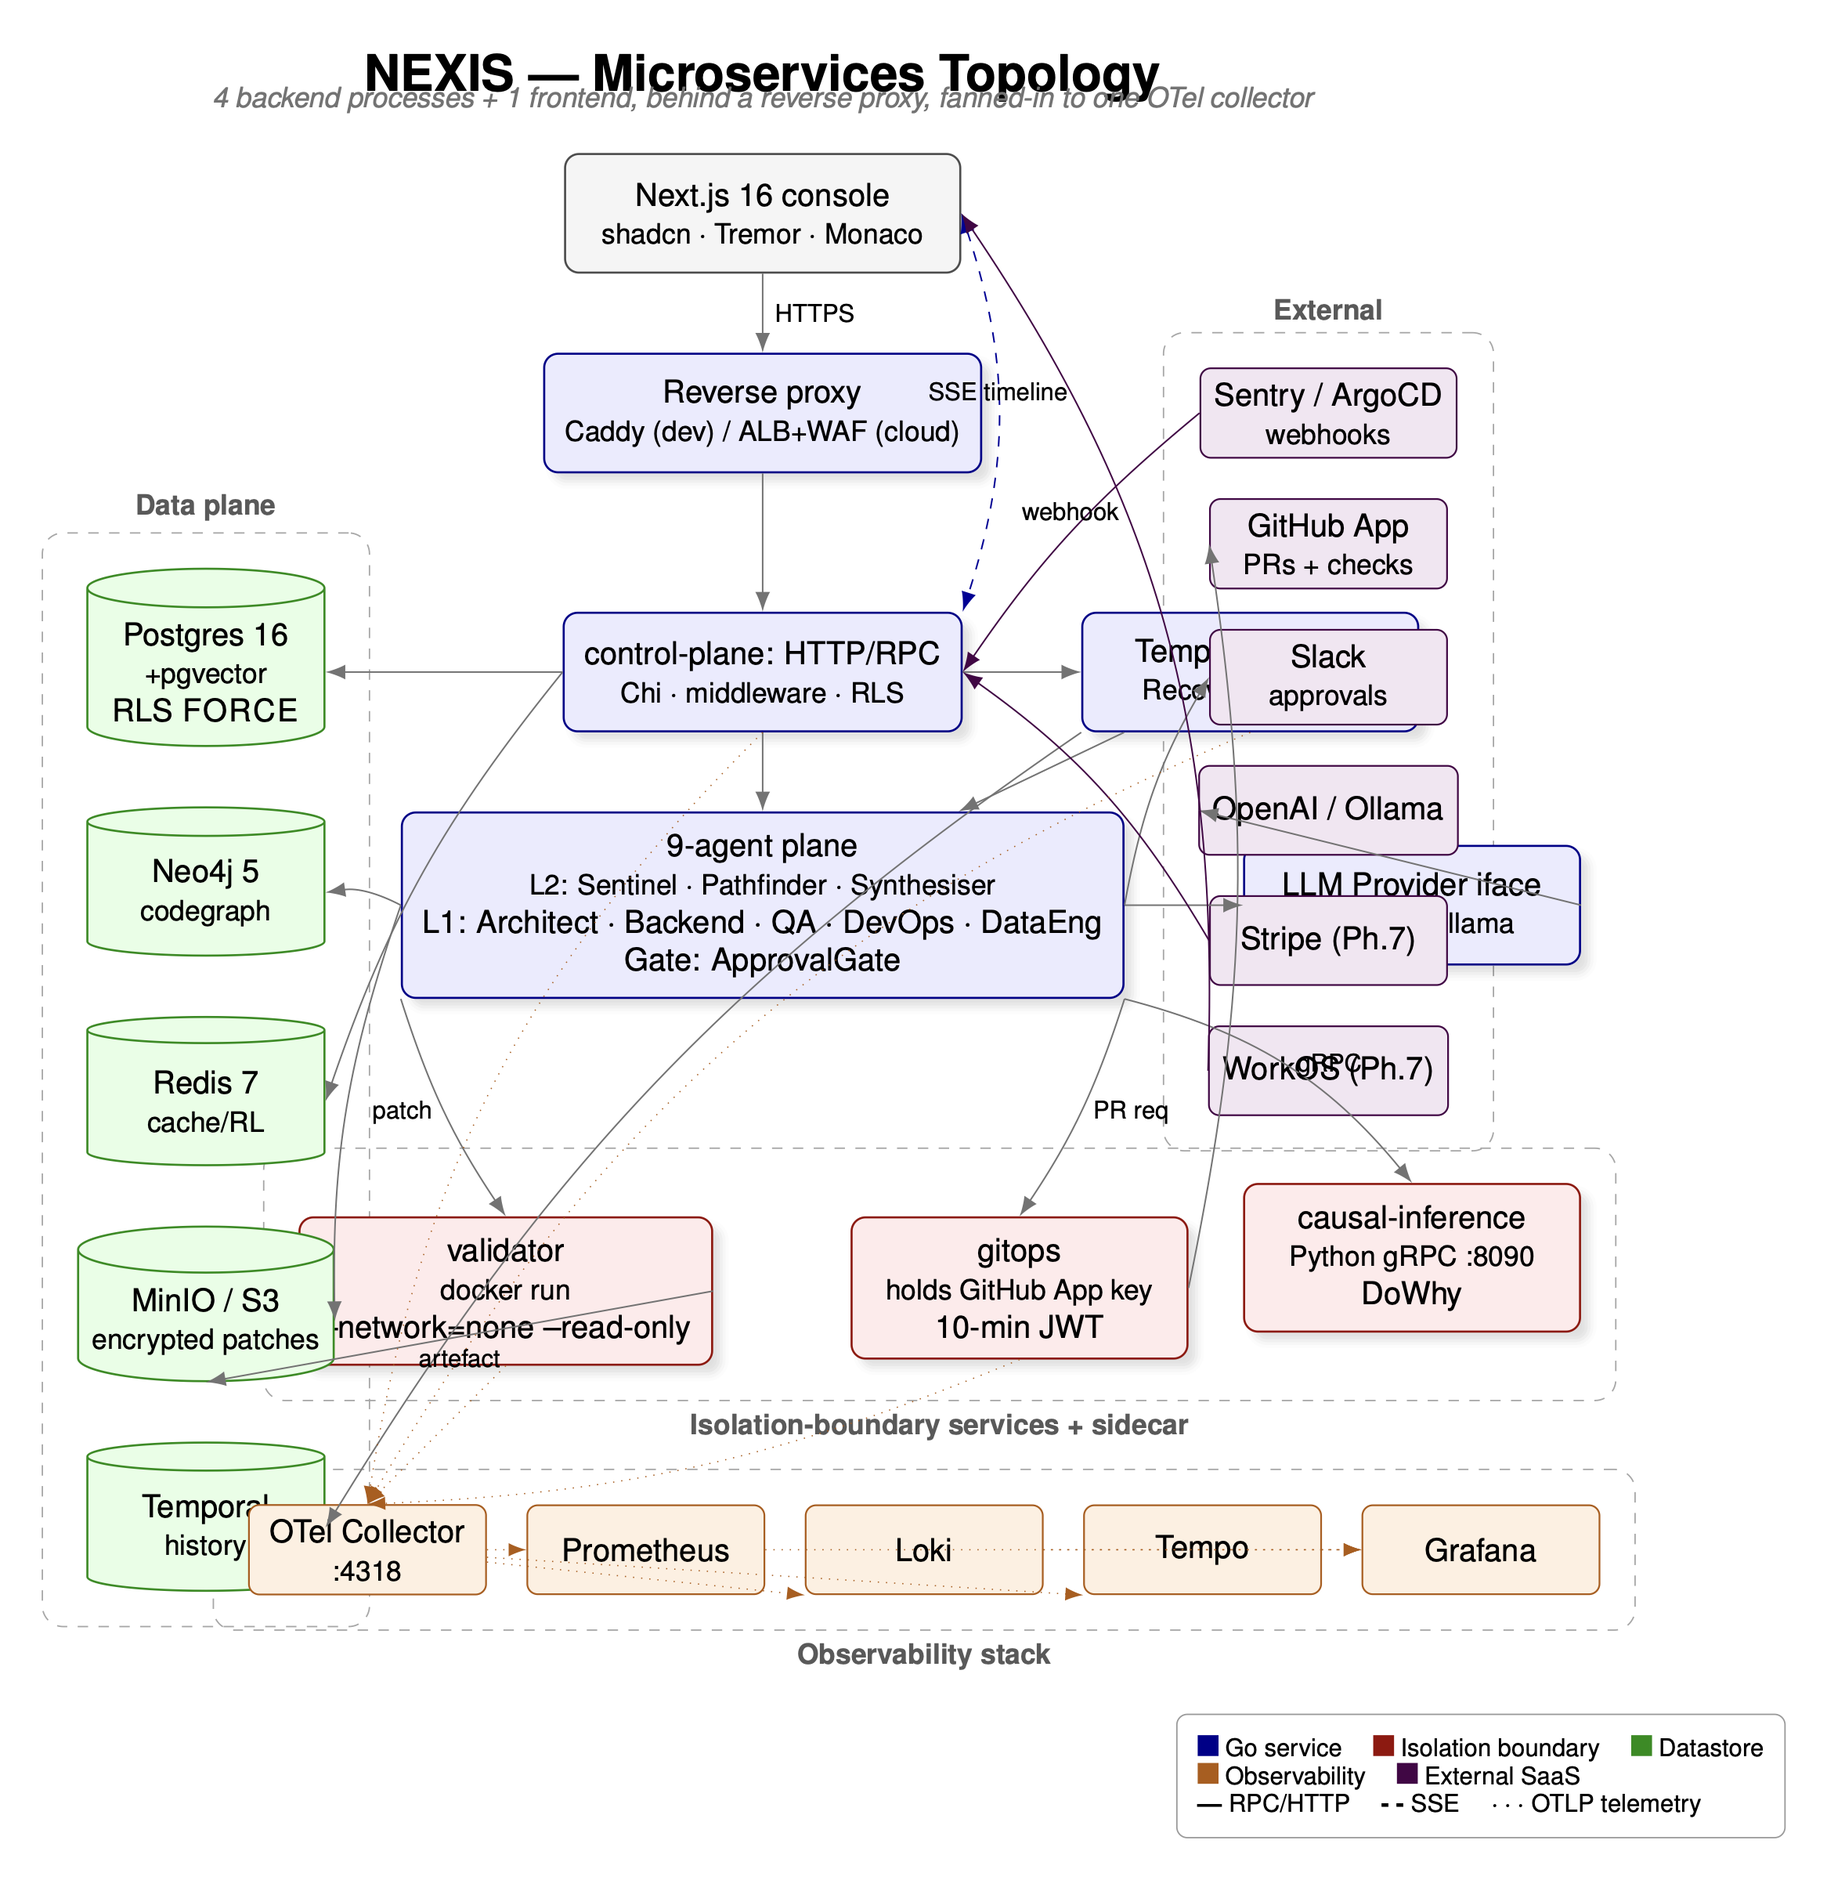
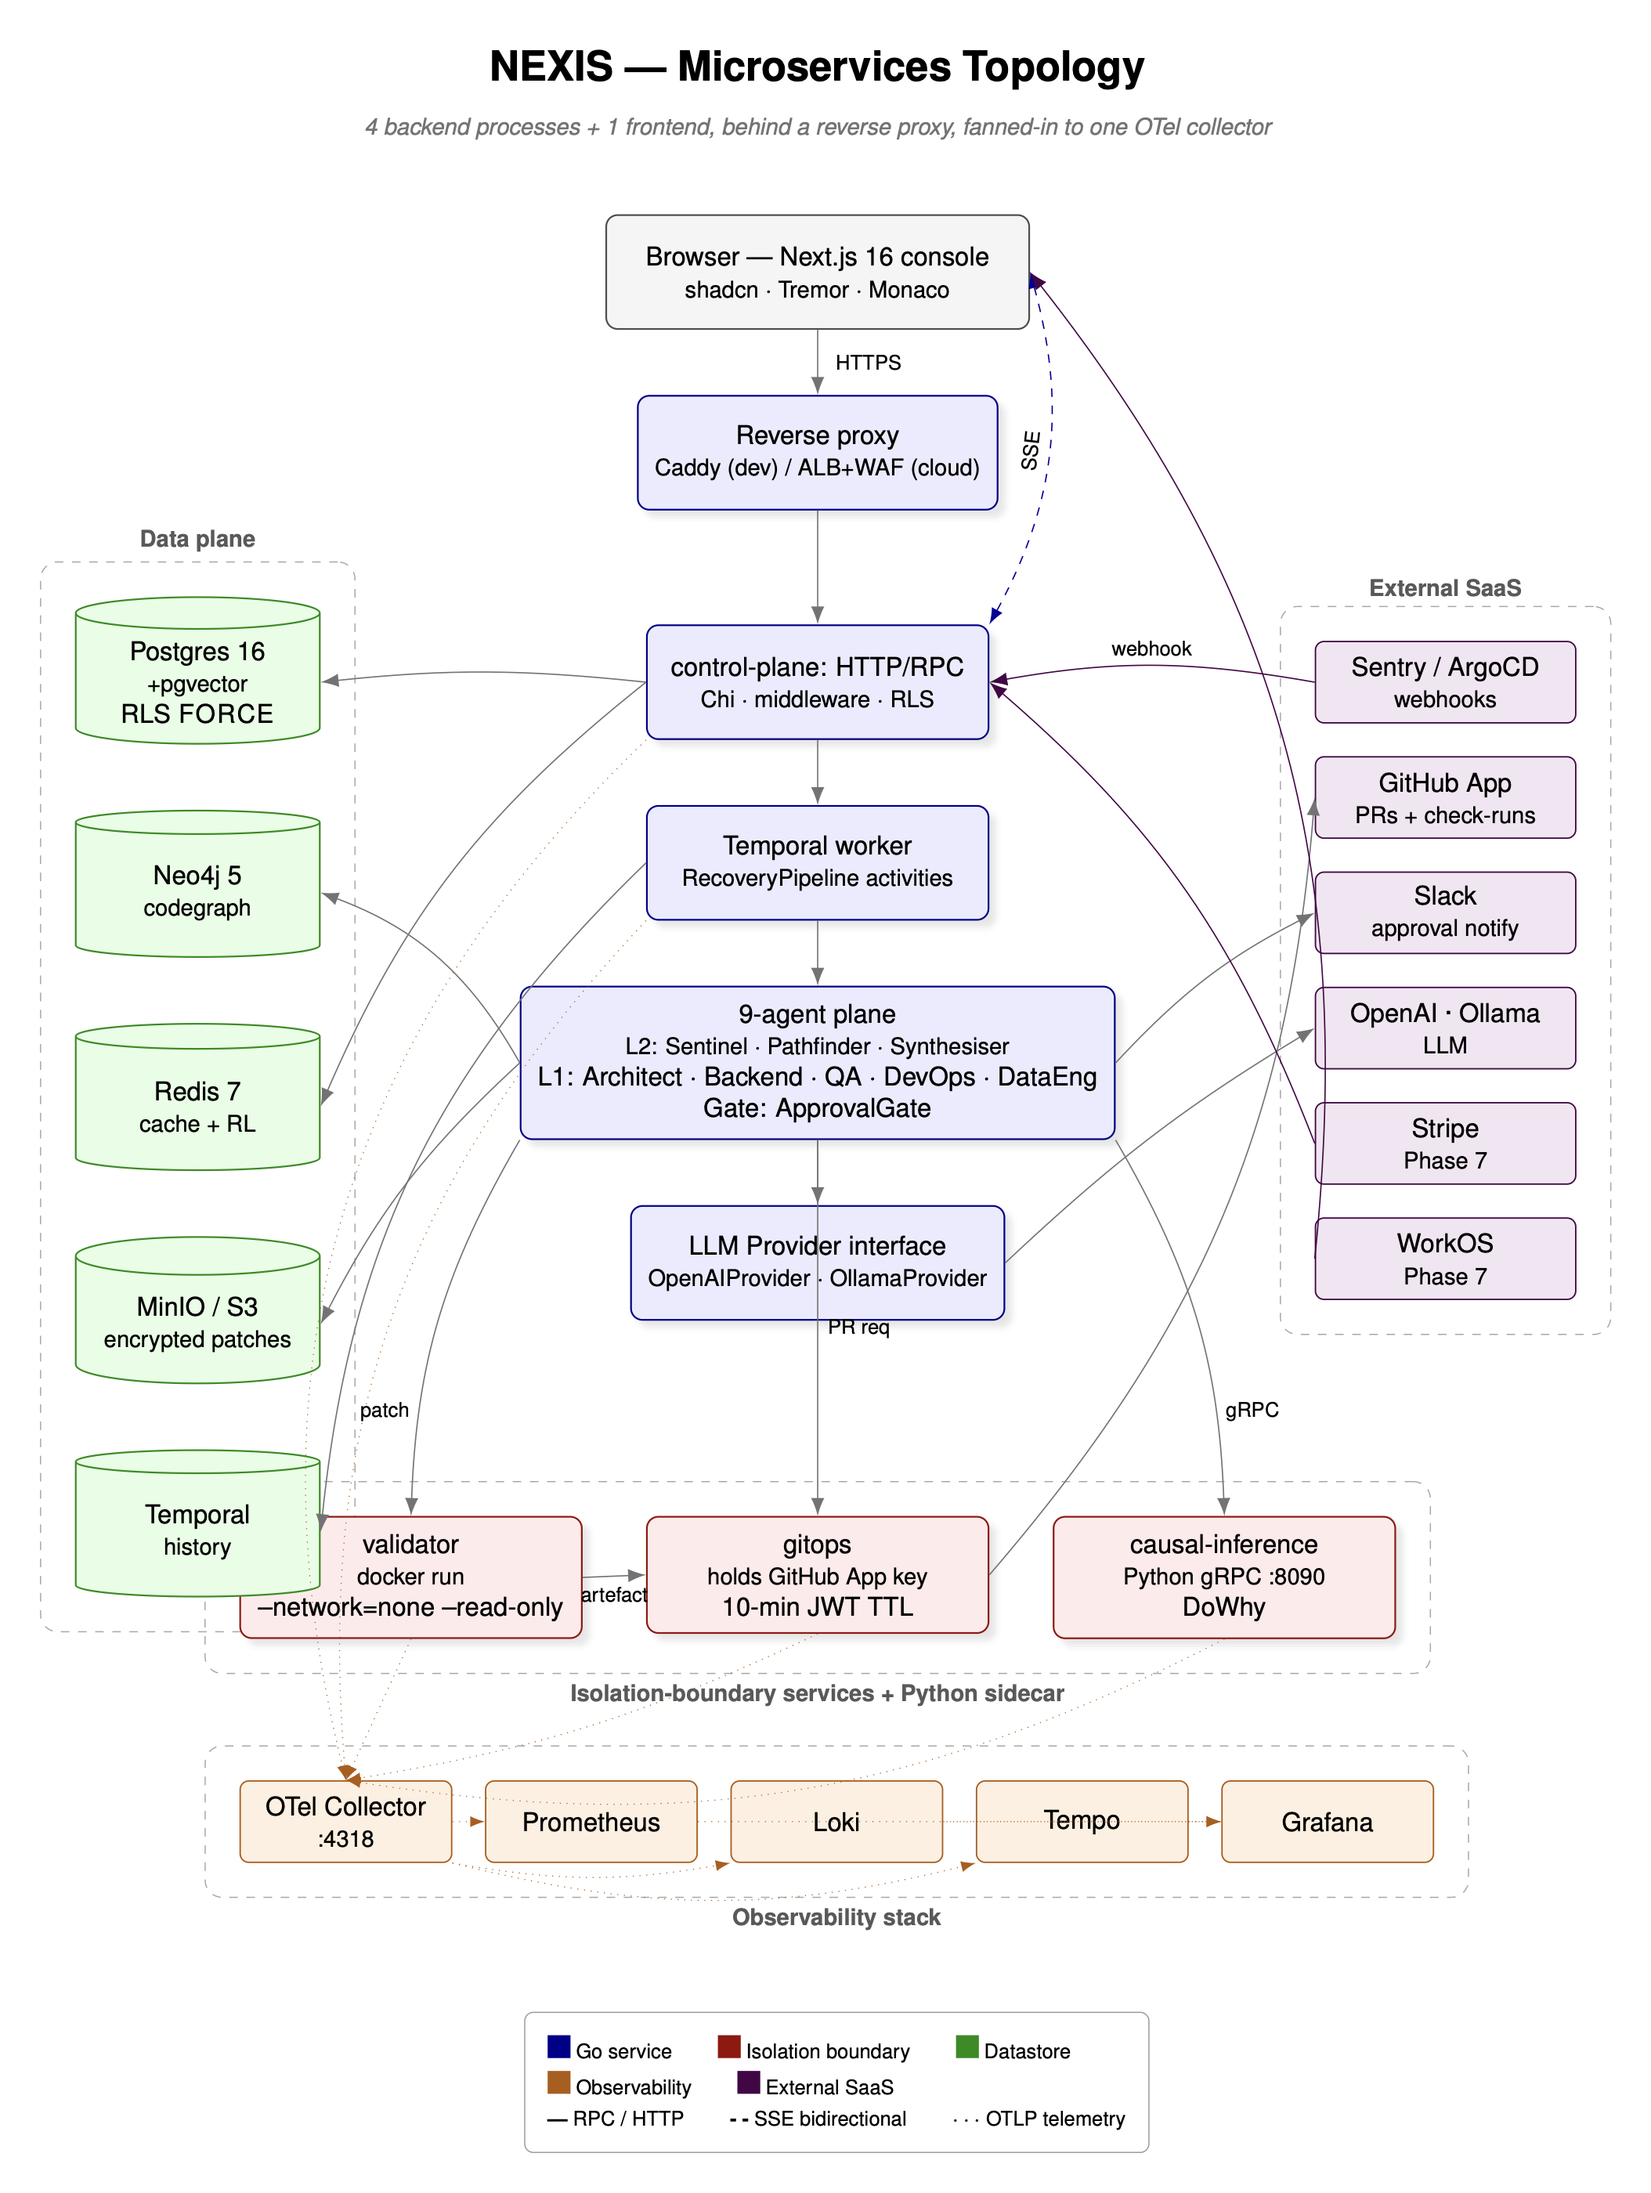
fix(health): map flat BE SystemHealthResp into SubsystemRow[] the client expects

diff --git a/apps/web/app/(app)/console/health/page.tsx b/apps/web/app/(app)/console/health/page.tsx
@@ -19,9 +19,56 @@ const API =
   process.env.NEXT_PUBLIC_API_URL ??
   "http://localhost:8080";
 
-type SystemHealthResp = {
-  rows: SubsystemRow[];
+// The BE returns a flat object: {control_plane:{status,latency_ms,checked_at,last_error?}, postgres:{...}, redis:{...}, neo4j:{...}, minio:{...}, temporal:{...}}.
+type Check = {
+  status: "healthy" | "degraded" | "down" | "disabled";
+  latency_ms: number;
+  checked_at: string;
+  last_error?: string;
 };
+type SystemHealthResp = {
+  control_plane?: Check;
+  postgres?: Check;
+  redis?: Check;
+  neo4j?: Check;
+  minio?: Check;
+  temporal?: Check;
+};
+
+const SUBSYSTEM_LABELS: Array<[keyof SystemHealthResp, string]> = [
+  ["control_plane", "Control plane"],
+  ["postgres", "Postgres"],
+  ["redis", "Redis"],
+  ["temporal", "Temporal"],
+  ["minio", "MinIO"],
+  ["neo4j", "Neo4j"],
+];
+
+function toSubsystemRows(body: SystemHealthResp): SubsystemRow[] {
+  return SUBSYSTEM_LABELS.map(([key, label]) => {
+    const c = body[key];
+    if (!c) {
+      return { key, label, state: "unknown" } satisfies SubsystemRow;
+    }
+    const state: SubsystemRow["state"] =
+      c.status === "healthy"
+        ? "healthy"
+        : c.status === "degraded"
+          ? "degraded"
+          : c.status === "down"
+            ? "down"
+            : "unknown";
+    return {
+      key,
+      label,
+      state,
+      latency_ms: c.latency_ms,
+      last_check_at: c.checked_at,
+      last_error: c.last_error,
+      detail: c.status === "disabled" ? "Probe disabled in this environment" : undefined,
+    } satisfies SubsystemRow;
+  });
+}
 
 export default async function HealthPage() {
   const c = await cookies();
@@ -37,7 +84,7 @@ export default async function HealthPage() {
     });
     if (r.ok) {
       const body = (await r.json()) as SystemHealthResp;
-      subsystems = body.rows ?? [];
+      subsystems = toSubsystemRows(body);
     }
   } catch {
     // ignore
